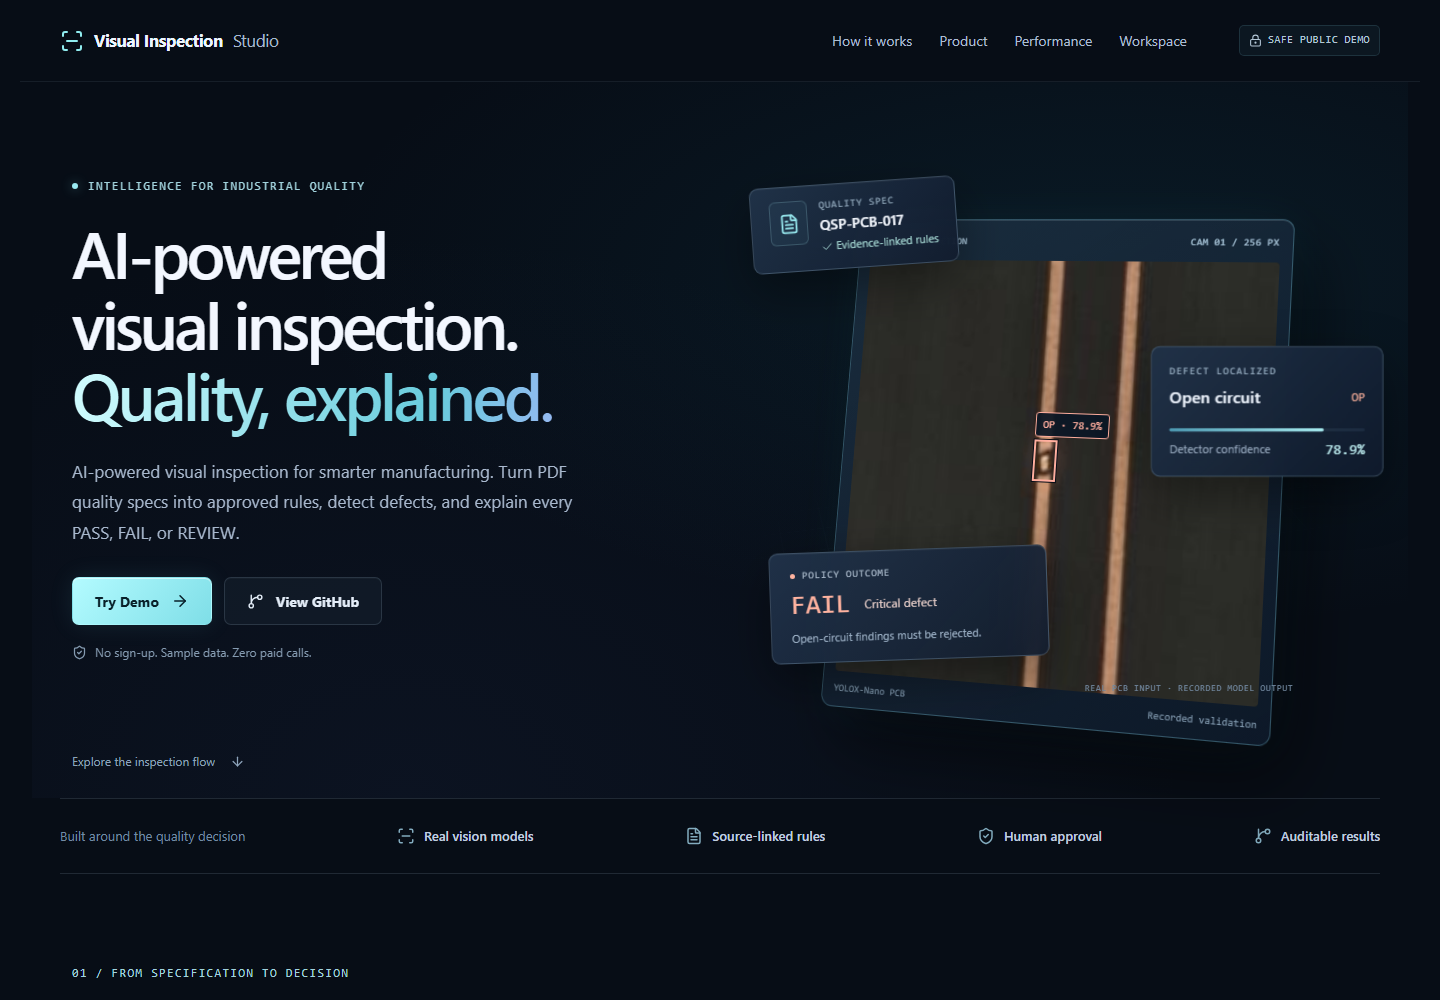
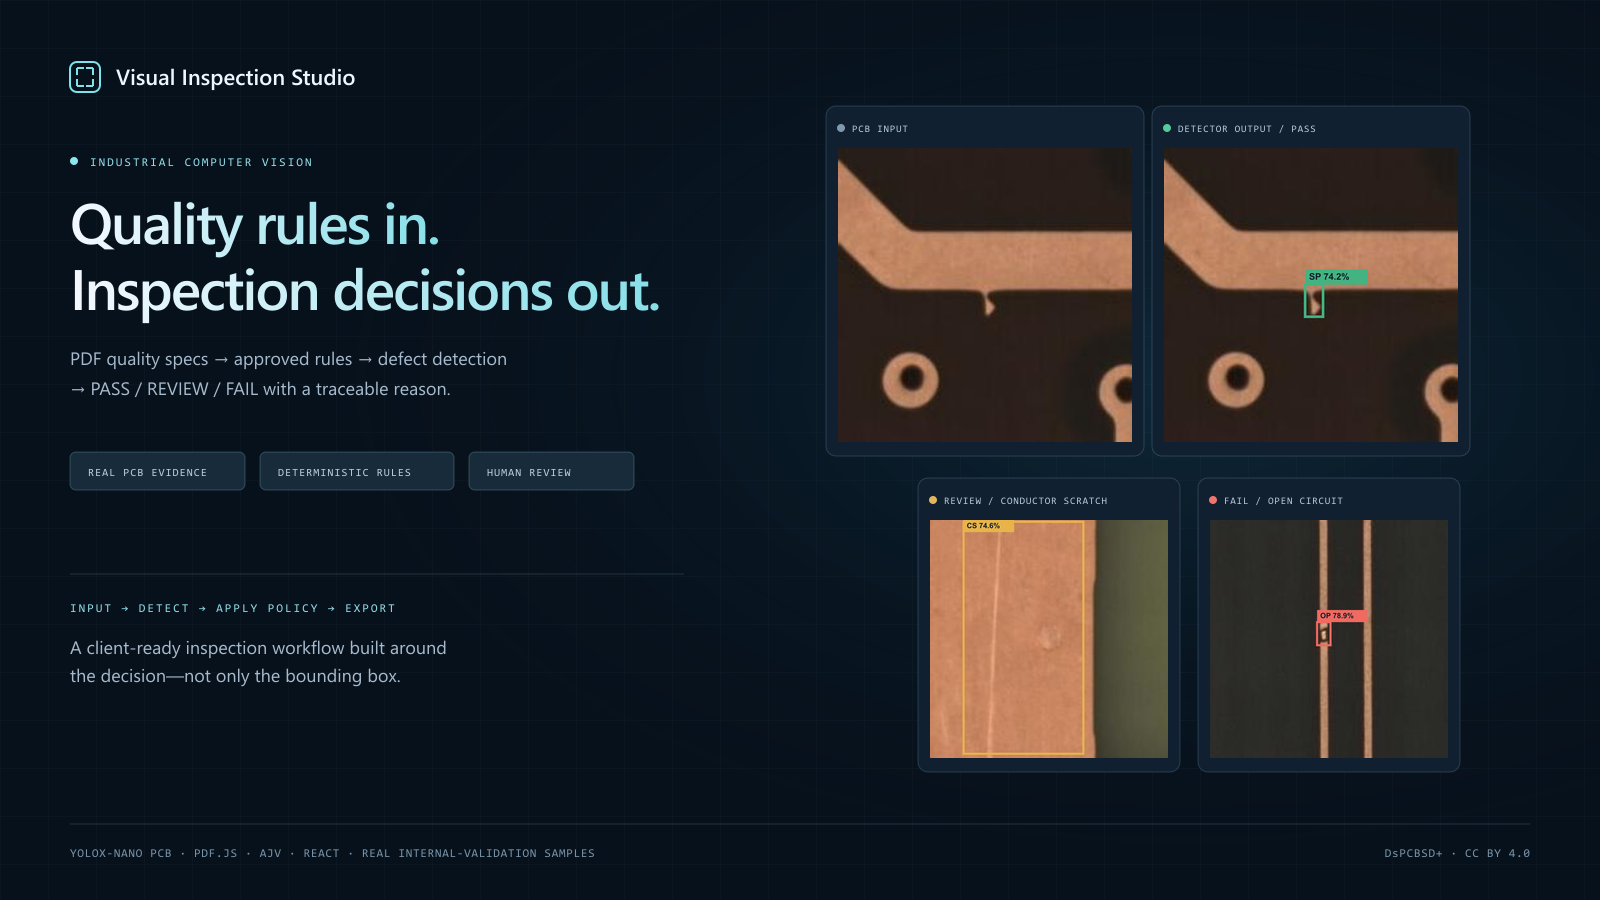
docs: refresh portfolio covers with real PCB evidence

diff --git a/docs/portfolio/UPWORK.md b/docs/portfolio/UPWORK.md
@@ -42,7 +42,7 @@ This project demonstrates those engineering layers in one working product.
 
 1. **`upwork-cover-1600x1200.png`**
 
-   *From quality requirements to auditable inspection decisions.*
+   *Real PCB inputs and recorded detector outputs: from quality requirements to auditable inspection decisions.*
 
 2. **`05-input-output-cases.png`**
 
@@ -68,7 +68,7 @@ This project demonstrates those engineering layers in one working product.
 
 All visuals are direct product captures, code-rendered architecture, or attributed DsPCBSD+ samples. No generative concept art is used.
 
-The homepage cover uses a dark industrial presentation with a dimensional PCB panel. Additional assets include `07-mobile-home.png`, `08-performance.png`, and `09-defect-detail.png` for responsive design, measured results, and source-linked region detail.
+The portfolio cover uses real DsPCBSD+ PCB inputs and recorded detector outputs from the repository. Additional assets include `07-mobile-home.png`, `08-performance.png`, and `09-defect-detail.png` for responsive design, measured results, and source-linked region detail.
 
 ## Suggested skills/tags
 
